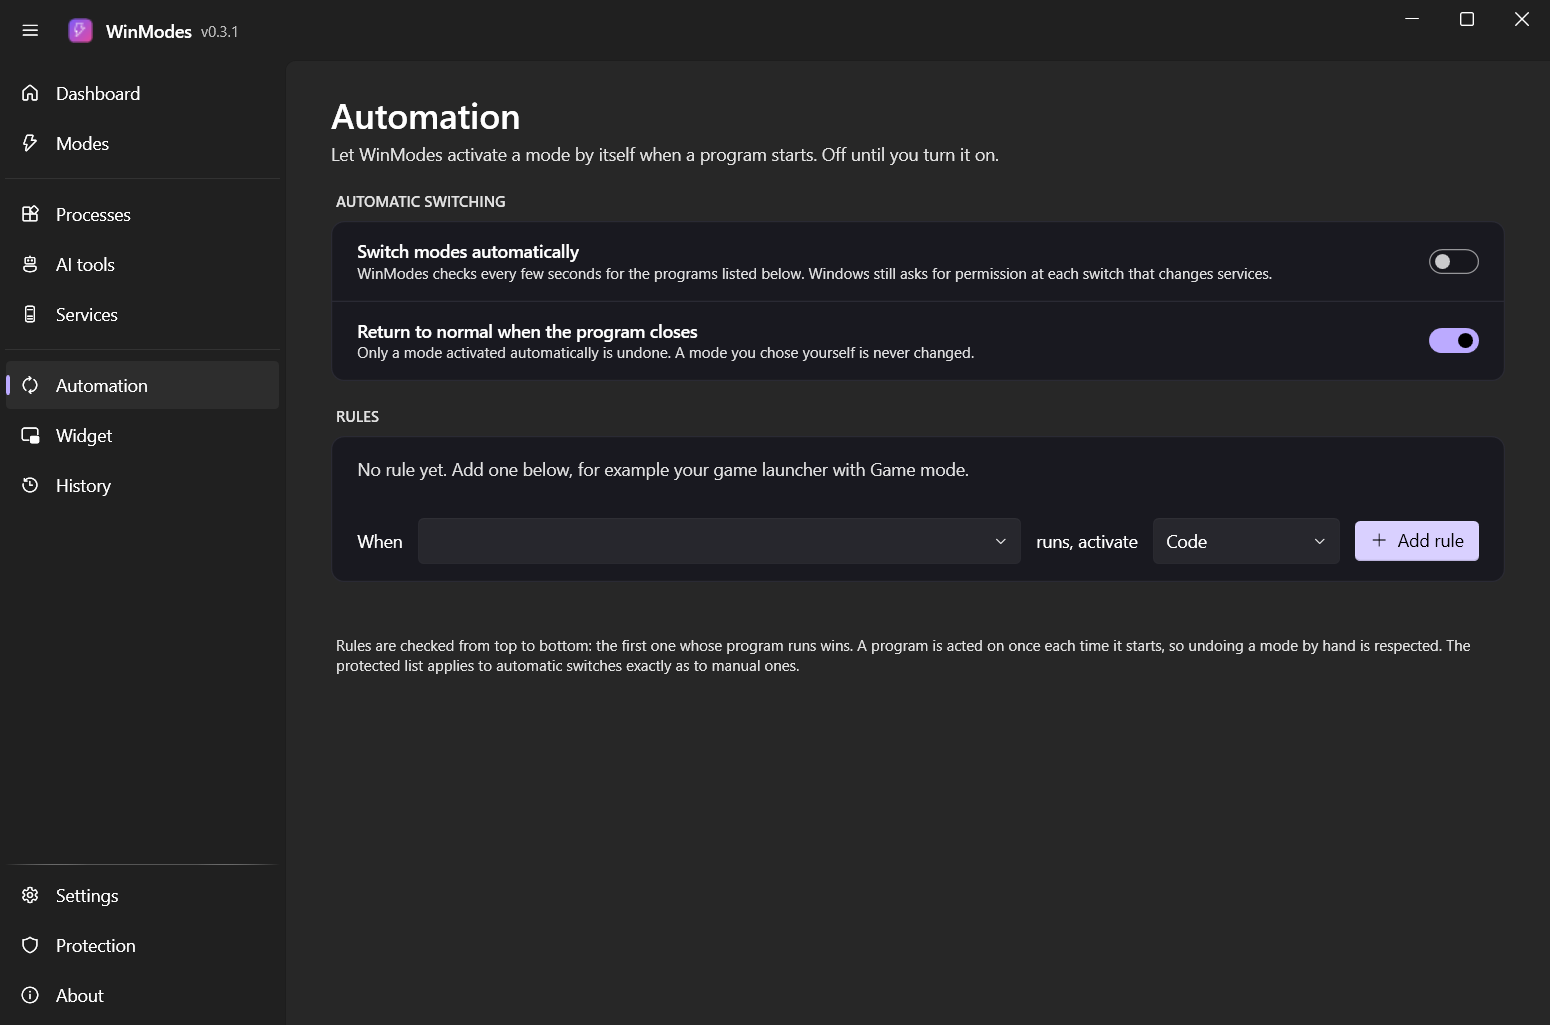
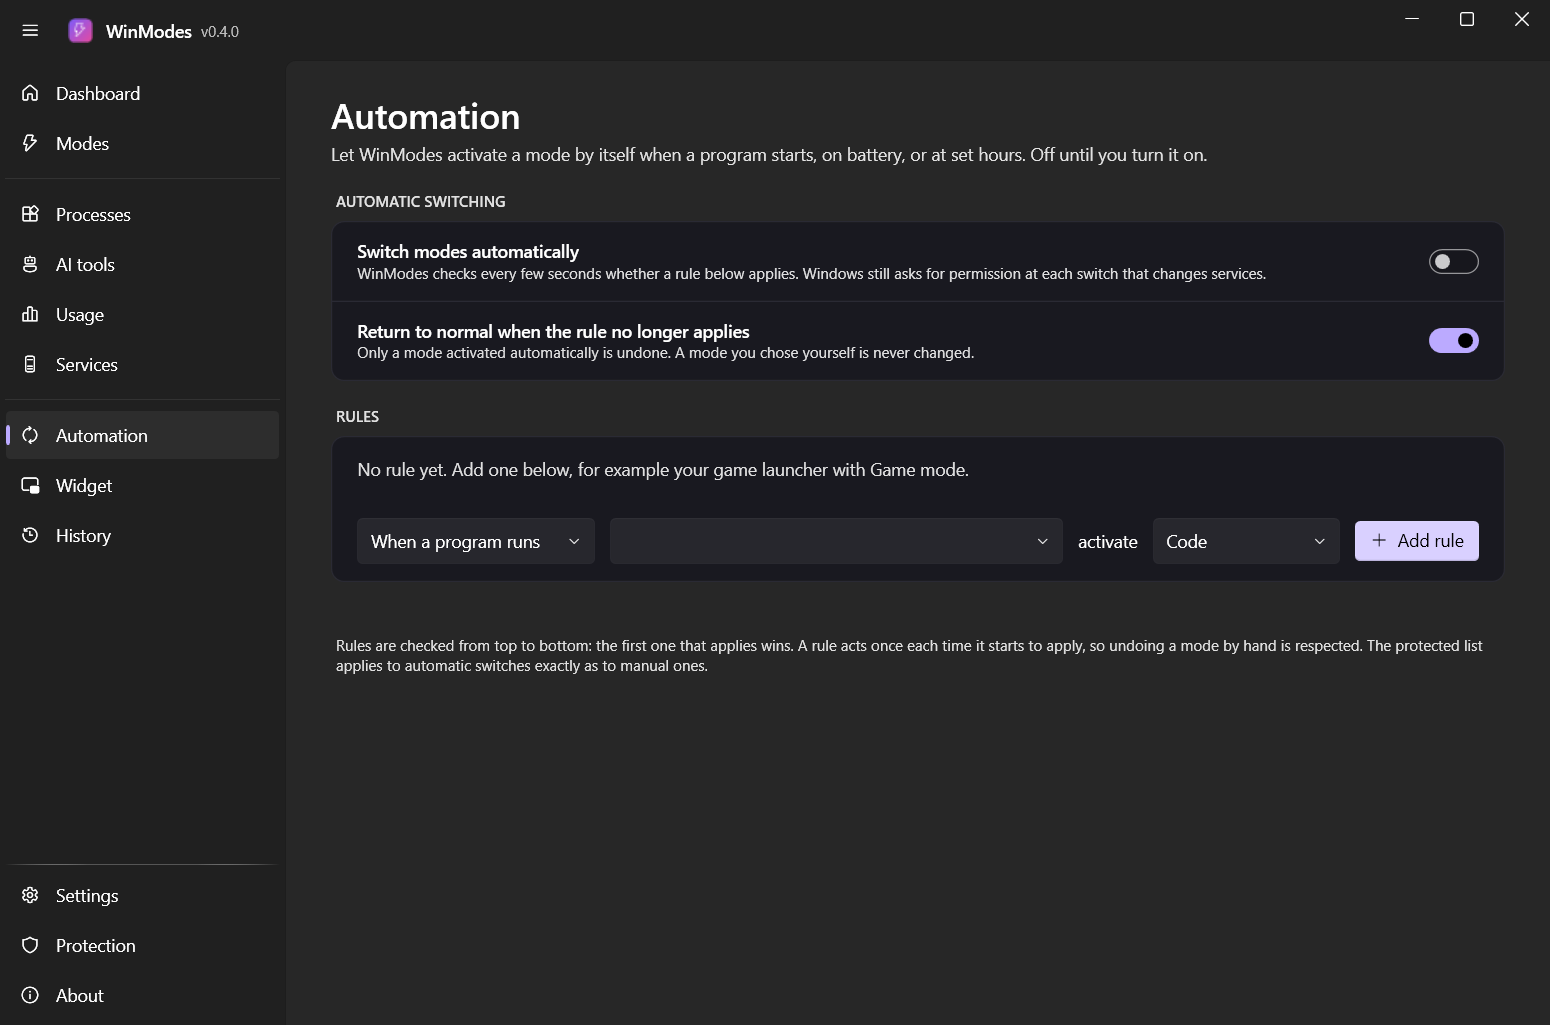
Update the README for the new features and refresh the screenshots

diff --git a/README.md b/README.md
@@ -15,13 +15,19 @@ WinModes switches your PC between modes (Code, Work, Game) to free memory and cu
 - **Modes**: each mode stops the services it does not need, closes or launches apps, sets the power plan and starts or stops WSL and Docker Desktop.
 - **Preview before anything changes**: every mode shows exactly what it would change on your PC, compared with its current state.
 - **Undo**: the state of each service is recorded before it is touched, and "Deactivate" restores it.
-- **Dashboard**: CPU and memory gauges, 60-second history graphs, what each AI tool uses at a glance, top memory consumers.
+- **Dashboard**: CPU and memory gauges, 60-second history graphs for CPU, memory, GPU and disk, what each AI tool uses at a glance, top memory consumers.
 - **Processes page**: process tree with child processes, PID, CPU, memory, threads and command line; search, sort, and a right-click menu (end task, end process tree, open file location, copy).
 - **AI tools page**: every running session of Claude Code, Claude desktop, Codex, Cursor, VS Code and others, with the project folder it works in and all the processes it started.
 - **Services page**: search, filters, real app icons, and a lock on everything that is protected.
-- **Automation** (optional, off by default): rules such as "when `cs2.exe` runs, activate Game mode", undone when the program closes.
-- **Tray meter and desktop widget** (both optional): the notification-area icon can show the memory used by AI tools, and a small panel on the desktop shows CPU, memory, network and AI tools. The Widget page sets its content, size, opacity and position, with a live preview.
+- **Usage page** (optional, off by default): how much memory each AI tool used per project over the last day, week or month. Stored on your PC only.
+- **MCP servers in double**: the AI tools page shows the MCP servers that several sessions each started, and the memory they hold together.
+- **Idle sessions**: flagged after 30 minutes without CPU use; end them by hand, or let WinModes do it after a delay you choose (off by default).
+- **Automation** (optional, off by default): rules such as "when `cs2.exe` runs, activate Game mode", "on battery, activate Work mode" or "from 09:00 to 18:00, activate Code mode", undone when the rule no longer applies.
+- **Tray meter and desktop widget** (both optional): the notification-area icon can show the memory used by AI tools, and a small panel on the desktop shows CPU, memory, network and AI tools. The Widget page sets its content, size, opacity and position, with a live preview; the widget can be one compact line, show small graphs, and hide during full-screen apps.
 - **Privacy mode**: hides project names, folders, command-line details and your account name, for screen sharing and screenshots.
+- **Updates**: WinModes checks the GitHub releases at startup (can be turned off); an installed copy can download the new installer, check it against the release checksum and start it.
+- **Report**: export a snapshot of the PC (program names and totals only) to ask for help.
+- **Dark and light themes**.
 - **Welcome guide** on first run, and a **Settings** page: start with Windows, start minimized, keep running in the notification area, shortcuts, memory alert, WSL memory limit.
 
 | Modes | AI tools |
@@ -64,7 +70,7 @@ Known limitations:
 - **Portable and development builds are not hardened.** There, the elevated helper reads the protected list and the profiles from the app folder, which any program running as you could modify. The installer puts the protected list under Program Files, where changing it needs administrator rights; only the mode profiles stay editable, and the protected list is enforced whatever a profile says.
 - Automatic switching still shows the Windows permission prompt at each switch.
 - The profiles in `profiles/` were generated for one machine (an HP OMEN laptop). Generate your own, see below.
-- The interface is in English and dark only.
+- The interface is in English only.
 
 ## Download
 
